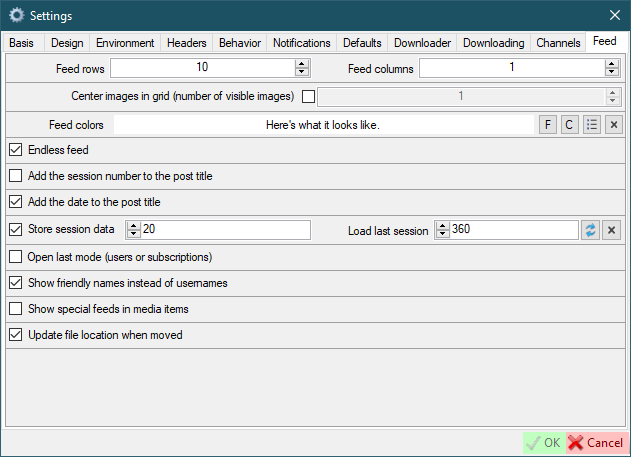
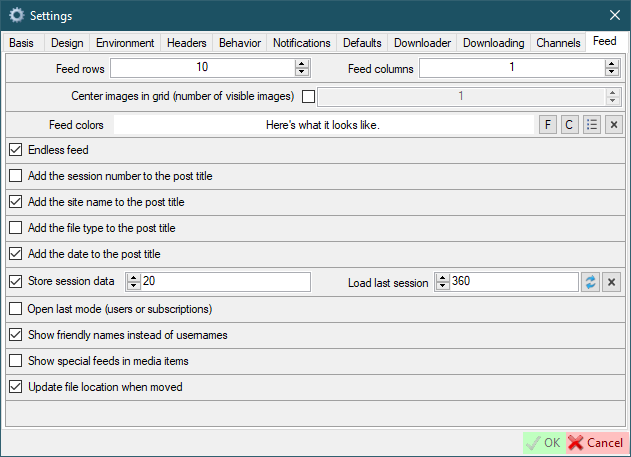
2024.6.10.0
YT
YouTubeSettings: add 'VideoPlaylist_AddExtractedMP3' property
MediaItem: improve visualization of height and bitrate
YouTubeMediaContainerBase: fix bugs on default post-processing formats; add 'HeightBase' and 'BitrateBase' properties; add extracted MP3 to playlist
VideoListForm: add 'UpdateLogButton' handlers

SCrawler
Feed: add settings to show/hide site name and file type from media title; add move/copy files of a loaded feed/session to another location; add the ability to reset current session
DownloadFeedForm: when moving saved posts files without replacing the profile, some data is lost
FeedVideo: add double-click handler to open video in external player
API.Instagram: update settings

Changed region(s): [[0.0, 0.4902, 0.9937, 0.8578], [0.0903, 0.4289, 0.3011, 0.4595]]

diff --git a/Changelog.md b/Changelog.md
@@ -1,3 +1,16 @@
+# 2024.6.10.0
+
+*2024-06-10*
+
+- Added
+  - YouTube (standalone app): add option to add extracted MP3 to playlist (`Settings` - `Defaults Video` - `Add extracted MP3 to playlist`)
+  - Feed
+    - settings to show/hide site name and file type from media title
+    - ability to move/copy files of a loaded feed/session to another location
+    - ability to reset current session
+- Fixed
+  - Minor bugs
+
 # 2024.6.6.0
 
 *2024-06-06*
